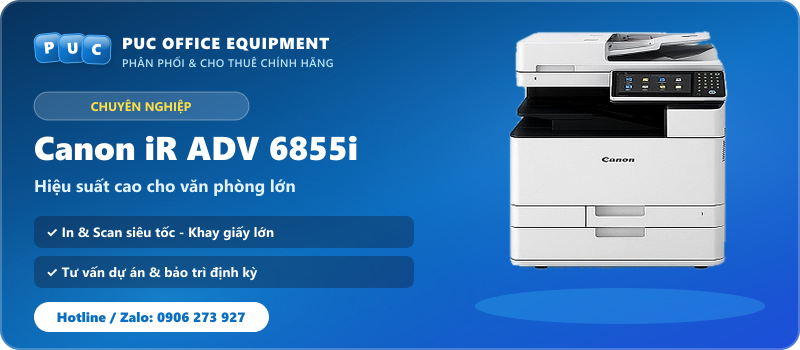
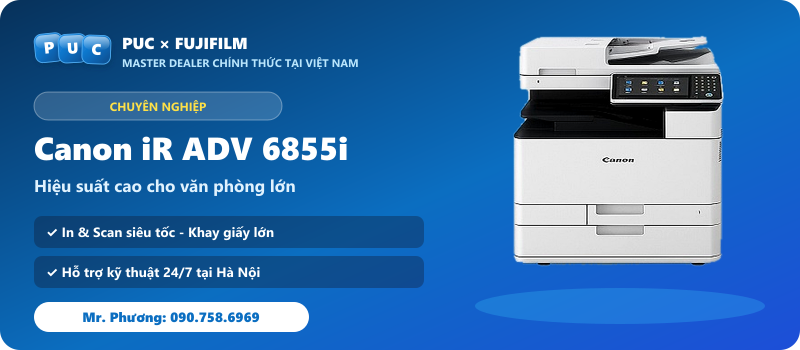
Replace all 0906273927 occurrences with 0907586969 across site, admin, and images

diff --git a/js/site.js b/js/site.js
@@ -22,13 +22,13 @@
     address: 'Số 21, ngõ 75 Cầu Đất, Phường Hồng Hà, Thành phố Hà Nội, Việt Nam',
     branchAddress: '393 Bạch Đằng, Phường Hồng Hà, Thành phố Hà Nội',
     hotline: '090.758.6969',
-    hotline2: '0906 273 927',
+    hotline2: '',
     hotline3: '',
     tels: [],
     email: '',
     web: '',
     siteUrl: 'https://puc-ecommerce.vercel.app/',
-    zalo: 'https://zalo.me/0906273927',
+    zalo: 'https://zalo.me/0907586969',
     facebook: 'https://www.facebook.com/p/C%C3%B4ng-ty-TNHH-Unlimitted-Photocopy-100064020552993/',
     messenger: '',
     leadEndpoint: '',
@@ -80,6 +80,15 @@
   /* ---------- Đồng bộ Cài đặt từ Admin (nếu Admin đã chỉnh sửa) ---------- */
   var savedCfg = jget('puc_settings', null);
   if (savedCfg) {
+    if (/0906[\s.]?273[\s.]?927/.test(savedCfg.hotline || '')) {
+      savedCfg.hotline = '090.758.6969';
+      if (/0906[\s.]?273[\s.]?927/.test(savedCfg.phone || '')) savedCfg.phone = '0907586969';
+      jset('puc_settings', savedCfg);
+    }
+    if (/0906[\s.]?273[\s.]?927/.test(savedCfg.phone || '')) {
+      savedCfg.phone = '0907586969';
+      jset('puc_settings', savedCfg);
+    }
     if (savedCfg.companyName) CFG.name = savedCfg.companyName;
     if (savedCfg.address) CFG.address = savedCfg.address;
     if (savedCfg.branchAddress) CFG.branchAddress = savedCfg.branchAddress;
@@ -406,7 +415,7 @@
       '<span class="tb-item"><i class="fa fa-shield"></i>MST: ' + CFG.mst + '</span>' +
       '<span class="tb-sep">•</span>' +
       (CFG.email ? '<span class="tb-item"><i class="fa fa-envelope"></i><a href="mailto:' + esc(CFG.email) + '">' + esc(CFG.email) + '</a></span><span class="tb-sep">•</span>' : '') +
-      '<span class="tb-item"><i class="fa fa-phone"></i>Mr. Phương: <a href="' + tel('0907586969') + '" data-track="hotline"><strong>' + CFG.hotline + '</strong></a> · CSKH: <a href="' + tel(CFG.hotline2) + '">' + CFG.hotline2 + '</a></span>' +
+      '<span class="tb-item"><i class="fa fa-phone"></i>Mr. Phương: <a href="' + tel('0907586969') + '" data-track="hotline"><strong>' + CFG.hotline + '</strong></a> · <a href="' + CFG.zalo + '" target="_blank" rel="noopener" data-track="zalo">Zalo: 0907586969</a></span>' +
       '<span class="tb-sep">•</span>' +
       '<span class="tb-item"><i class="fa fa-facebook-square"></i><a href="' + CFG.facebook + '" target="_blank" rel="noopener" data-track="fanpage">Fanpage PUC</a></span>' +
       '<span class="tb-sep">•</span>';
@@ -489,7 +498,7 @@
             '<li><i class="fa fa-trophy"></i>Master Dealer Fujifilm VN · Giải nhất Tay nghề 2026</li>' +
             '<li><i class="fa fa-map-marker"></i>Trụ sở: ' + esc(CFG.address) + '</li>' +
             '<li><i class="fa fa-building"></i>VPGD: ' + esc(CFG.branchAddress) + '</li>' +
-            '<li><i class="fa fa-phone"></i>Mr. Phương: <a href="' + tel('0907586969') + '" data-track="hotline"><strong>' + CFG.hotline + '</strong></a> · CSKH/Zalo: <a href="' + CFG.zalo + '" target="_blank">' + CFG.hotline2 + '</a></li>' +
+            '<li><i class="fa fa-phone"></i>Mr. Phương: <a href="' + tel('0907586969') + '" data-track="hotline"><strong>' + CFG.hotline + '</strong></a> · <a href="' + CFG.zalo + '" target="_blank" data-track="zalo">Zalo: 0907586969</a></li>' +
             (CFG.tels && CFG.tels.length ? '<li><i class="fa fa-phone-square"></i>Điện thoại: ' + esc(CFG.tels.join(' · ')) + '</li>' : '') +
             (CFG.email ? '<li><i class="fa fa-envelope"></i><a href="mailto:' + esc(CFG.email) + '">' + esc(CFG.email) + '</a></li>' : '') +
             (CFG.openingHours ? '<li><i class="fa fa-clock-o"></i>Giờ mở cửa: ' + esc(CFG.openingHours) + '</li>' : '') +
@@ -1069,7 +1078,7 @@
           '</div>' +
         '</div>' +
       '</div>' +
-      '<div class="tabpane" id="t2"><ul class="speclist"><li><b>Đặt hàng trực tuyến:</b> Bấm "Đặt mua ngay", chọn hình thức thanh toán hoặc COD để hoàn tất đơn hàng trực tuyến.</li><li><b>Hotline Master Dealer (Mr. Phương):</b> <a href="' + tel('0907586969') + '" style="color:#0B6EC1;font-weight:700">' + CFG.hotline + '</a> · CSKH/Zalo: <a href="' + CFG.zalo + '" target="_blank" style="color:#0068FF;font-weight:700">' + CFG.hotline2 + '</a></li><li><b>Fanpage:</b> <a href="' + CFG.facebook + '" target="_blank" style="color:#1877F2;font-weight:700">Fanpage PUC</a></li><li><b>Trụ sở:</b> ' + esc(CFG.address) + '</li><li><b>Văn phòng giao dịch:</b> ' + esc(CFG.branchAddress) + '</li></ul></div>' +
+      '<div class="tabpane" id="t2"><ul class="speclist"><li><b>Đặt hàng trực tuyến:</b> Bấm "Đặt mua ngay", chọn hình thức thanh toán hoặc COD để hoàn tất đơn hàng trực tuyến.</li><li><b>Hotline / Zalo Master Dealer (Mr. Phương):</b> <a href="' + tel('0907586969') + '" style="color:#0B6EC1;font-weight:700">' + CFG.hotline + '</a> · <a href="' + CFG.zalo + '" target="_blank" style="color:#0068FF;font-weight:700">Chat Zalo 0907586969</a></li><li><b>Fanpage:</b> <a href="' + CFG.facebook + '" target="_blank" style="color:#1877F2;font-weight:700">Fanpage PUC</a></li><li><b>Trụ sở:</b> ' + esc(CFG.address) + '</li><li><b>Văn phòng giao dịch:</b> ' + esc(CFG.branchAddress) + '</li></ul></div>' +
       '<div class="tabpane" id="t3"><p>PUC Office Equipment cung cấp đầy đủ hộp mực, trống (drum), cụm sấy và linh kiện thay thế chính hãng cho ' + esc(p.name) + '. <a href="' + listLink('vat-tu') + '" style="color:#0B6EC1;font-weight:700">Xem danh mục vật tư - linh kiện »</a></p></div>' +
       '<section class="section" style="margin-top:20px"><div class="sec-head"><h2 class="sec-title">Sản phẩm cùng danh mục</h2></div><div class="sec-body" id="pd-rel"></div></section>';
 

diff --git a/js/chatbot.js b/js/chatbot.js
@@ -50,27 +50,27 @@ const PucChatbot = {
     address: {
       patterns: ["địa chỉ", "ở đâu", "showroom", "cửa hàng", "tìm đến", "văn phòng", "location"],
       responses: [
-        "📍 **Địa chỉ Trụ sở & Showroom PUC Office Equipment**:\n\n**Số 21, ngõ 75 Cầu Đất**\nPhường Hồng Hà, Thành phố Hà Nội, Việt Nam\n\n🕐 **Giờ làm việc**: 8:00 - 18:00 (Thứ 2 đến Thứ 7)\n📞 **Hotline hỗ trợ**: 0906.273.927\n\nShowroom có chỗ đỗ ô tô rộng rãi và máy mẫu chạy thử trực tiếp. Rất hân hạnh được đón tiếp bạn!"
+        "📍 **Địa chỉ Trụ sở & Showroom PUC Office Equipment**:\n\n**Số 21, ngõ 75 Cầu Đất**\nPhường Hồng Hà, Thành phố Hà Nội, Việt Nam\n\n🕐 **Giờ làm việc**: 8:00 - 18:00 (Thứ 2 đến Thứ 7)\n📞 **Hotline hỗ trợ**: 090.758.6969\n\nShowroom có chỗ đỗ ô tô rộng rãi và máy mẫu chạy thử trực tiếp. Rất hân hạnh được đón tiếp bạn!"
       ]
     },
     
     warranty: {
       patterns: ["bảo hành", "warranty", "bảo trì", "sửa chữa", "hỏng", "kẹt giấy", "bảo dưỡng"],
       responses: [
-        "Chính sách bảo hành và bảo trì vượt trội tại PUC Office Equipment:\n\n✅ **Bảo hành 12 - 24 tháng** chính hãng cho toàn bộ thiết bị mới\n✅ **Hỗ trợ kỹ thuật tại chỗ trong vòng 2 giờ** nội thành Hà Nội\n✅ Đội ngũ kỹ sư tay nghề cao, thay thế linh kiện chính hãng 100%\n✅ Bảo trì định kỳ miễn phí hàng tháng (đối với máy thuê hoặc hợp đồng dịch vụ)\n\nĐường dây nóng kỹ thuật khẩn cấp: **0906.273.927**"
+        "Chính sách bảo hành và bảo trì vượt trội tại PUC Office Equipment:\n\n✅ **Bảo hành 12 - 24 tháng** chính hãng cho toàn bộ thiết bị mới\n✅ **Hỗ trợ kỹ thuật tại chỗ trong vòng 2 giờ** nội thành Hà Nội\n✅ Đội ngũ kỹ sư tay nghề cao, thay thế linh kiện chính hãng 100%\n✅ Bảo trì định kỳ miễn phí hàng tháng (đối với máy thuê hoặc hợp đồng dịch vụ)\n\nĐường dây nóng kỹ thuật khẩn cấp: **090.758.6969**"
       ]
     },
     
     contact: {
       patterns: ["liên hệ", "gọi", "hotline", "số điện thoại", "email", "sđt", "zalo", "tư vấn"],
       responses: [
-        "📞 **Thông Tin Liên Hệ PUC Office Equipment**:\n\n• **Hotline kinh doanh:** 0906.273.927 | 0987.782.626\n• **Hỗ trợ kỹ thuật 24/7:** 0906.273.927\n• **Văn phòng công ty:** 0906.273.927\n• **Email:** \n• **Zalo OA:** 0906273927 (Công ty PUC Office Equipment)\n\nBạn có thể để lại số điện thoại ngay tại đây, chuyên viên tư vấn sẽ gọi lại cho bạn sau 5 phút!"
+        "📞 **Thông Tin Liên Hệ PUC Office Equipment**:\n\n• **Hotline kinh doanh:** 090.758.6969\n• **Hỗ trợ kỹ thuật 24/7:** 090.758.6969\n• **Văn phòng công ty:** 090.758.6969\n• **Email:** \n• **Zalo OA:** 0907586969 (Công ty PUC Office Equipment)\n\nBạn có thể để lại số điện thoại ngay tại đây, chuyên viên tư vấn sẽ gọi lại cho bạn sau 5 phút!"
       ]
     },
     
     default: {
       responses: [
-        "Tôi chưa hiểu rõ yêu cầu của bạn. Bạn có thể chọn câu hỏi nhanh bên dưới hoặc hỏi về:\n• Giá máy photocopy / máy in\n• Dịch vụ cho thuê máy trọn gói\n• Chính sách bảo hành, sửa chữa\n• Địa chỉ showroom & dùng thử\n\nHoặc gọi trực tiếp Hotline hỗ trợ nhanh: **0906.273.927**"
+        "Tôi chưa hiểu rõ yêu cầu của bạn. Bạn có thể chọn câu hỏi nhanh bên dưới hoặc hỏi về:\n• Giá máy photocopy / máy in\n• Dịch vụ cho thuê máy trọn gói\n• Chính sách bảo hành, sửa chữa\n• Địa chỉ showroom & dùng thử\n\nHoặc gọi trực tiếp Hotline hỗ trợ nhanh: **090.758.6969**"
       ]
     }
   },

diff --git a/admin/js/admin-core.js b/admin/js/admin-core.js
@@ -79,7 +79,7 @@
       role: 'Super Admin',
       permissions: 'Toàn quyền hệ thống (Full Access)',
       email: '',
-      phone: '0906 273 927',
+      phone: '090.758.6969',
       status: 'Đang hoạt động',
       createdAt: '2026-01-01 08:00',
       lastLogin: 'Hôm nay',
@@ -92,7 +92,7 @@
       role: 'Quản Lý Kinh Doanh',
       permissions: 'Đơn hàng, Khách hàng, Leads CRM & Báo cáo',
       email: '',
-      phone: '0906 273 927',
+      phone: '090.758.6969',
       status: 'Đang hoạt động',
       createdAt: '2026-01-15 08:30',
       lastLogin: 'Hôm nay',
@@ -105,7 +105,7 @@
       role: 'Quản Lý Kỹ Thuật',
       permissions: 'Thiết bị cho thuê, Sản phẩm & Lịch bảo trì',
       email: '',
-      phone: '0906 273 927',
+      phone: '090.758.6969',
       status: 'Đang hoạt động',
       createdAt: '2026-02-01 09:00',
       lastLogin: 'Hôm nay',
@@ -121,7 +121,7 @@
     shortName: 'PUC OFFICE EQUIPMENT',
     taxId: '0107485011',
     hotline: '090.758.6969',
-    phone: '0906 273 927',
+    phone: '0907586969',
     email: '',
     website: 'https://puc-ecommerce.vercel.app',
     address: 'Số 21, ngõ 75 Cầu Đất, P. Hồng Hà, Hà Nội · VPGD: 393 Bạch Đằng, P. Hồng Hà, HN',
@@ -897,8 +897,18 @@
   // INITIALIZATION & LOCALSTORAGE MANAGEMENT
   // =========================================================================
   function initStorage() {
-    if (!localStorage.getItem(STORAGE_KEYS.SETTINGS)) {
+    const existingSetRaw = localStorage.getItem(STORAGE_KEYS.SETTINGS);
+    if (!existingSetRaw) {
       localStorage.setItem(STORAGE_KEYS.SETTINGS, JSON.stringify(SEED_SETTINGS));
+    } else {
+      try {
+        const s = JSON.parse(existingSetRaw);
+        if (s && (/0906[\s.]?273[\s.]?927/.test(s.hotline || '') || /0906[\s.]?273[\s.]?927/.test(s.phone || ''))) {
+          s.hotline = '090.758.6969';
+          s.phone = '0907586969';
+          localStorage.setItem(STORAGE_KEYS.SETTINGS, JSON.stringify(s));
+        }
+      } catch (e) { /* ignore */ }
     }
     // Đồng bộ 262 sản phẩm (kèm danh mục Fujifilm Việt Nam) từ window.PUC_PRODUCTS vào Admin Store
     const catalogSource = window.PUC_PRODUCTS;
@@ -1624,7 +1634,7 @@
         role: accData.role || 'Quản Lý Kinh Doanh',
         permissions: rolePermMap[accData.role] || 'Quản trị vận hành',
         email: sanitizeValue(accData.email || ''),
-        phone: sanitizeValue(accData.phone || '0906 273 927'),
+        phone: sanitizeValue(accData.phone || '090.758.6969'),
         status: 'Đang hoạt động',
         createdAt: new Date().toISOString().replace('T', ' ').slice(0, 16),
         lastLogin: 'Chưa đăng nhập',

diff --git a/js/lead-form.js b/js/lead-form.js
@@ -81,7 +81,7 @@
                   type="tel" 
                   name="phone" 
                   required 
-                  placeholder="Ví dụ: 0906 273 927"
+                  placeholder="Ví dụ: 090.758.6969"
                   class="w-full pl-9 pr-3 py-2 text-sm bg-gray-50 border border-gray-300 rounded-lg focus:outline-none focus:border-blue-600 focus:bg-white text-gray-900"
                 />
               </div>
@@ -123,14 +123,14 @@
           <!-- Direct Channels -->
           <div class="mt-4 pt-3.5 border-t border-gray-100 flex items-center justify-center gap-4 text-xs text-gray-500">
             <span>Hoặc kết nối trực tiếp:</span>
-            <a href="https://zalo.me/0906273927" target="_blank" class="flex items-center gap-1 font-bold text-blue-600 hover:underline">
+            <a href="https://zalo.me/0907586969" target="_blank" class="flex items-center gap-1 font-bold text-blue-600 hover:underline">
               <i class="fa-solid fa-comment-dots"></i> Zalo
             </a>
             <a href="https://wa.me/84913524260" target="_blank" class="flex items-center gap-1 font-bold text-green-600 hover:underline">
               <i class="fa-brands fa-whatsapp"></i> WhatsApp
             </a>
-            <a href="tel:0906273927" class="flex items-center gap-1 font-bold text-red-600 hover:underline">
-              <i class="fa-solid fa-phone"></i> 0906.273.927
+            <a href="tel:0907586969" class="flex items-center gap-1 font-bold text-red-600 hover:underline">
+              <i class="fa-solid fa-phone"></i> 090.758.6969
             </a>
           </div>
         </div>
@@ -146,7 +146,7 @@
           </p>
 
           <div class="flex flex-col sm:flex-row gap-3 justify-center">
-            <a href="https://zalo.me/0906273927" target="_blank" class="px-5 py-2.5 bg-blue-600 hover:bg-blue-700 text-white rounded-lg text-sm font-bold flex items-center justify-center gap-2 transition">
+            <a href="https://zalo.me/0907586969" target="_blank" class="px-5 py-2.5 bg-blue-600 hover:bg-blue-700 text-white rounded-lg text-sm font-bold flex items-center justify-center gap-2 transition">
               <i class="fa-solid fa-comment-dots"></i> Nhắn Tin Qua Zalo
             </a>
             <button type="button" id="close-success-btn" class="px-5 py-2.5 bg-gray-100 hover:bg-gray-200 text-gray-700 rounded-lg text-sm font-semibold transition">

diff --git a/components/payment.js b/components/payment.js
@@ -111,7 +111,7 @@ const PaymentGateway = (function () {
         <div class="p-3 bg-amber-50 border border-amber-200 rounded-xl text-xs text-amber-800 flex items-start gap-2.5 mt-3">
           <i class="fa-solid fa-circle-exclamation text-amber-600 mt-0.5 text-sm flex-shrink-0"></i>
           <div>
-            <strong>Lưu ý:</strong> Vui lòng liên hệ hotline <a href="tel:0906273927" class="font-bold underline text-red-600">0906.273.927</a> để xác nhận đơn hàng, tư vấn xuất hóa đơn VAT điện tử và hướng dẫn thanh toán chi tiết.
+            <strong>Lưu ý:</strong> Vui lòng liên hệ hotline <a href="tel:0907586969" class="font-bold underline text-red-600">090.758.6969</a> để xác nhận đơn hàng, tư vấn xuất hóa đơn VAT điện tử và hướng dẫn thanh toán chi tiết.
           </div>
         </div>
       </div>
@@ -200,7 +200,7 @@ const PaymentGateway = (function () {
         <div class="p-4 bg-white border border-gray-200 rounded-xl text-center space-y-2">
           <div class="text-[#A50064] font-bold text-sm">Ví Điện Tử MoMo</div>
           <p class="text-xs text-gray-500 max-w-sm mx-auto">
-            Quý khách quét mã MoMo hoặc chuyển đến số hotline đại diện kế toán: <strong>0906 273 927</strong> (PUC Office Office).
+            Quý khách quét mã MoMo hoặc chuyển đến số hotline đại diện kế toán: <strong>090.758.6969</strong> (PUC Office Equipment).
           </p>
         </div>
       `;
@@ -211,7 +211,7 @@ const PaymentGateway = (function () {
         <div class="p-4 bg-white border border-gray-200 rounded-xl text-center space-y-2">
           <div class="text-[#0068FF] font-bold text-sm">Ví Điện Tử ZaloPay</div>
           <p class="text-xs text-gray-500 max-w-sm mx-auto">
-            Thanh toán qua ví ZaloPay hoặc liên hệ Zalo số: <strong>0906 273 927</strong> để kế toán gửi mã QR xác thực giao dịch nhanh.
+            Thanh toán qua ví ZaloPay hoặc liên hệ Zalo số: <strong>090.758.6969</strong> để kế toán gửi mã QR xác thực giao dịch nhanh.
           </p>
         </div>
       `;

diff --git a/pages/contact.html b/pages/contact.html
@@ -10,7 +10,7 @@
   <link rel="preconnect" href="https://fonts.gstatic.com" crossorigin>
   <link href="https://fonts.googleapis.com/css2?family=Be+Vietnam+Pro:wght@400;600;700;800&family=Lato:wght@400;700;900&display=swap" rel="stylesheet">
   <link rel="stylesheet" href="https://cdnjs.cloudflare.com/ajax/libs/font-awesome/4.7.0/css/font-awesome.min.css">
-  <link rel="stylesheet" href="../css/site.css?v=20261123ff">
+  <link rel="stylesheet" href="../css/site.css?v=20261124p">
 </head>
 <body data-root="../" data-page="contact">
 
@@ -32,7 +32,7 @@
           <ul class="speclist" id="contact-info-list">
             <li><strong>Người phụ trách:</strong> MR. PHƯƠNG – CÔNG TY PUC</li>
             <li><strong>Hotline tư vấn 1-1:</strong> <a href="tel:0907586969" style="color:#0B6EC1;font-weight:800;font-size:15px">090.758.6969</a></li>
-            <li><strong>CSKH / Zalo:</strong> <a href="https://zalo.me/0906273927" target="_blank" rel="noopener" style="color:#0068FF;font-weight:700">0906 273 927 (Chat Zalo)</a></li>
+            <li><strong>Zalo tư vấn:</strong> <a href="https://zalo.me/0907586969" target="_blank" rel="noopener" style="color:#0068FF;font-weight:700">090.758.6969 (Chat Zalo)</a></li>
             <li><strong>Trụ sở:</strong> Số 21, ngõ 75 Cầu Đất, Phường Hồng Hà, Thành phố Hà Nội, Việt Nam</li>
             <li><strong>Văn phòng giao dịch:</strong> 393 Bạch Đằng, Phường Hồng Hà, Thành phố Hà Nội</li>
             <li><strong>Facebook:</strong> <a href="https://www.facebook.com/p/C%C3%B4ng-ty-TNHH-Unlimitted-Photocopy-100064020552993/" target="_blank" rel="noopener" style="color:#1877F2;font-weight:700">Fanpage PUC Office Equipment</a></li>
@@ -80,8 +80,8 @@
 
   <div id="ql-foot"></div>
 
-  <script src="../data/products.js?v=20261123ff"></script>
-  <script src="../js/site.js?v=20261123ff"></script>
+  <script src="../data/products.js?v=20261124p"></script>
+  <script src="../js/site.js?v=20261124p"></script>
 </body>
 </html>
 

diff --git a/index.html b/index.html
@@ -15,7 +15,7 @@
   <meta property="og:site_name" content="PUC Office Equipment">
   <meta property="og:locale" content="vi_VN">
   <meta property="og:title" content="PUC Office Equipment - Máy Photocopy & Thiết Bị Văn Phòng Chính Hãng">
-  <meta property="og:description" content="CÔNG TY TNHH THƯƠNG MẠI VÀ DỊCH VỤ PUC - Cung cấp & cho thuê máy photocopy, máy in, máy scan, laptop, mực và vật tư chính hãng. Hotline/Zalo: 0906 273 927.">
+  <meta property="og:description" content="CÔNG TY TNHH THƯƠNG MẠI VÀ DỊCH VỤ PUC - Master Dealer chính thức Fujifilm VN. Cung cấp & cho thuê máy photocopy, máy in, máy scan, laptop, phần mềm. Hotline/Zalo Mr. Phương: 090.758.6969.">
   <meta property="og:url" content="https://puc-ecommerce.vercel.app/">
   <meta property="og:image" content="https://puc-ecommerce.vercel.app/img/site/logo-og.png">
   <meta name="twitter:card" content="summary_large_image">
@@ -24,7 +24,7 @@
   <link rel="preconnect" href="https://fonts.gstatic.com" crossorigin>
   <link href="https://fonts.googleapis.com/css2?family=Be+Vietnam+Pro:wght@400;500;600;700;800&family=Lato:wght@400;700;900&display=swap" rel="stylesheet">
   <link rel="stylesheet" href="https://cdnjs.cloudflare.com/ajax/libs/font-awesome/4.7.0/css/font-awesome.min.css">
-  <link rel="stylesheet" href="css/site.css?v=20261123ff">
+  <link rel="stylesheet" href="css/site.css?v=20261124p">
 </head>
 <body data-root="" data-page="home">
 
@@ -347,8 +347,8 @@
   <div id="ql-foot"></div>
 
   <script src="https://cdnjs.cloudflare.com/ajax/libs/three.js/r128/three.min.js"></script>
-  <script src="js/three-scene.js?v=20261123ff"></script>
-  <script src="data/products.js?v=20261123ff"></script>
-  <script src="js/site.js?v=20261123ff"></script>
+  <script src="js/three-scene.js?v=20261124p"></script>
+  <script src="data/products.js?v=20261124p"></script>
+  <script src="js/site.js?v=20261124p"></script>
 </body>
 </html>

diff --git a/pages/about.html b/pages/about.html
@@ -10,7 +10,7 @@
   <link rel="preconnect" href="https://fonts.gstatic.com" crossorigin>
   <link href="https://fonts.googleapis.com/css2?family=Be+Vietnam+Pro:wght@400;600;700;800&family=Lato:wght@400;700;900&display=swap" rel="stylesheet">
   <link rel="stylesheet" href="https://cdnjs.cloudflare.com/ajax/libs/font-awesome/4.7.0/css/font-awesome.min.css">
-  <link rel="stylesheet" href="../css/site.css?v=20261123ff">
+  <link rel="stylesheet" href="../css/site.css?v=20261124p">
 </head>
 <body data-root="../" data-page="about">
 
@@ -58,7 +58,7 @@
           <tr><td>Mã số thuế</td><td>0107485011</td></tr>
           <tr><td>Trụ sở chính</td><td>Số 21, ngõ 75 Cầu Đất, Phường Hồng Hà, Thành phố Hà Nội, Việt Nam</td></tr>
           <tr><td>Văn phòng giao dịch</td><td>393 Bạch Đằng, Phường Hồng Hà, Thành phố Hà Nội</td></tr>
-          <tr><td>Người phụ trách / Hotline</td><td><strong style="color:#0B6EC1">Mr. Phương – Công ty PUC: <a href="tel:0907586969">090.758.6969</a></strong> · CSKH/Zalo: <a href="https://zalo.me/0906273927" target="_blank" rel="noopener">0906 273 927</a></td></tr>
+          <tr><td>Người phụ trách / Hotline</td><td><strong style="color:#0B6EC1">Mr. Phương – Công ty PUC: <a href="tel:0907586969">090.758.6969</a></strong> · <a href="https://zalo.me/0907586969" target="_blank" rel="noopener">Chat Zalo 0907586969</a></td></tr>
           <tr><td>Facebook</td><td><a href="https://www.facebook.com/p/C%C3%B4ng-ty-TNHH-Unlimitted-Photocopy-100064020552993/" target="_blank" rel="noopener">Fanpage PUC Office Equipment</a></td></tr>
         </tbody>
       </table>
@@ -67,7 +67,7 @@
 
   <div id="ql-foot"></div>
 
-  <script src="../data/products.js?v=20261123ff"></script>
-  <script src="../js/site.js?v=20261123ff"></script>
+  <script src="../data/products.js?v=20261124p"></script>
+  <script src="../js/site.js?v=20261124p"></script>
 </body>
 </html>

diff --git a/pages/products.html b/pages/products.html
@@ -21,7 +21,7 @@
   <link rel="preconnect" href="https://fonts.gstatic.com" crossorigin>
   <link href="https://fonts.googleapis.com/css2?family=Be+Vietnam+Pro:wght@400;500;600;700;800&family=Lato:wght@400;700;900&display=swap" rel="stylesheet">
   <link rel="stylesheet" href="https://cdnjs.cloudflare.com/ajax/libs/font-awesome/4.7.0/css/font-awesome.min.css">
-  <link rel="stylesheet" href="../css/site.css?v=20261123ff">
+  <link rel="stylesheet" href="../css/site.css?v=20261124p">
 </head>
 <body data-root="../" data-page="products">
 
@@ -52,7 +52,7 @@
           <div class="box-title"><i class="fa fa-phone"></i> Tư vấn & Báo giá dự án</div>
           <div class="box-body">
             <p>Cần tư vấn giải pháp 1-1 cùng chuyên gia chứng chỉ Fujifilm toàn cầu?</p>
-            <p style="margin:8px 0"><strong style="color:#0B6EC1;font-size:17px"><a href="tel:0907586969">090.758.6969</a></strong><br><span class="note">Mr. Phương – Master Dealer PUC · Zalo: 0906 273 927</span></p>
+            <p style="margin:8px 0"><strong style="color:#0B6EC1;font-size:17px"><a href="tel:0907586969">090.758.6969</a></strong><br><span class="note">Mr. Phương – Master Dealer PUC · Zalo: 0907586969</span></p>
             <button class="btn btn-red btn-block" data-lead="Tư vấn giải pháp Fujifilm / thiết bị VP"><i class="fa fa-file-text-o"></i> Nhận báo giá nhanh</button>
           </div>
         </div>
@@ -89,7 +89,7 @@
 
   <div id="ql-foot"></div>
 
-  <script src="../data/products.js?v=20261123ff"></script>
-  <script src="../js/site.js?v=20261123ff"></script>
+  <script src="../data/products.js?v=20261124p"></script>
+  <script src="../js/site.js?v=20261124p"></script>
 </body>
 </html>

diff --git a/js/payment.js b/js/payment.js
@@ -31,13 +31,13 @@
     ewallets: {
       momo: {
         name: "Ví Điện Tử MoMo",
-        account: "0906273927",
+        account: "0907586969",
         receiver: "PUC TRADING AND SERVICES CO.,LTD",
         color: "#A50064"
       },
       zalopay: {
         name: "Ví Điện Tử ZaloPay",
-        account: "0906273927",
+        account: "0907586969",
         receiver: "CÔNG TY TNHH THƯƠNG MẠI VÀ DỊCH VỤ PUC",
         color: "#0068FF"
       }
@@ -362,7 +362,7 @@
             </div>
             <h4 class="font-bold text-white text-sm">Thanh Toán Qua Ví Điện Tử MoMo</h4>
             <p class="text-gray-300 text-xs max-w-sm mx-auto leading-relaxed">
-              Sau khi đặt hàng, bạn có thể quét mã QR MoMo hoặc chuyển đến số <strong>0906.273.927</strong> (PUC OFFICE EQUIPMENT TRADING).
+              Sau khi đặt hàng, bạn có thể quét mã QR MoMo hoặc chuyển đến số <strong>090.758.6969</strong> (PUC OFFICE EQUIPMENT TRADING).
             </p>
             <div class="p-3 rounded-xl bg-white/5 border border-white/10 flex items-center justify-between text-xs max-w-sm mx-auto">
               <span class="text-gray-400">Nội dung chuyển:</span>
@@ -426,7 +426,7 @@
         paymentMethodName: this.getMethodName(this.selectedMethod),
         customer: {
           fullName: customerData.fullName || 'Khách Hàng',
-          phone: customerData.phone || '0906273927',
+          phone: customerData.phone || '0907586969',
           address: customerData.address || 'Hà Nội',
           notes: customerData.notes || ''
         },

diff --git a/admin/index.html b/admin/index.html
@@ -6,7 +6,7 @@
   <title>Admin Dashboard | PUC Office Equipment & CRM</title>
   <!-- Google Fonts & Font Awesome -->
   <link rel="stylesheet" href="https://cdnjs.cloudflare.com/ajax/libs/font-awesome/6.5.1/css/all.min.css">
-  <link rel="stylesheet" href="css/admin.css?v=20261123ff">
+  <link rel="stylesheet" href="css/admin.css?v=20261124p">
   <!-- Chart.js CDN -->
   <script src="https://cdn.jsdelivr.net/npm/chart.js"></script>
 </head>
@@ -260,7 +260,7 @@
             <div style="background:#eff6ff;border:1px solid #bfdbfe;border-radius:8px;padding:12px;">
               <div style="font-size:11.5px;color:#1d4ed8;font-weight:700;"><i class="fa-solid fa-comments"></i> Click Zalo OA</div>
               <div id="ana-zalo" style="font-size:20px;font-weight:800;color:#1e40af;margin-top:4px;">0</div>
-              <div style="font-size:11px;color:#3b82f6;margin-top:2px;">zalo.me/0906273927</div>
+              <div style="font-size:11px;color:#3b82f6;margin-top:2px;">zalo.me/0907586969</div>
             </div>
             <div style="background:#eff6ff;border:1px solid #bfdbfe;border-radius:8px;padding:12px;">
               <div style="font-size:11.5px;color:#1d4ed8;font-weight:700;"><i class="fa-brands fa-facebook"></i> Fanpage & Hotline</div>
@@ -430,8 +430,8 @@
   </div>
 
   <!-- CORE SCRIPT -->
-  <script src="../data/products.js?v=20261123ff"></script>
-  <script src="js/admin-core.js?v=20261123ff"></script>
+  <script src="../data/products.js?v=20261124p"></script>
+  <script src="js/admin-core.js?v=20261124p"></script>
 
   <!-- DASHBOARD SCRIPT -->
   <script>
